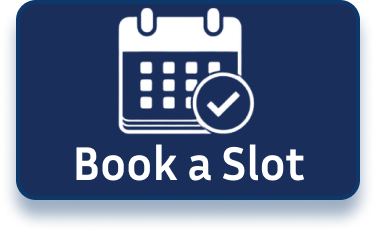
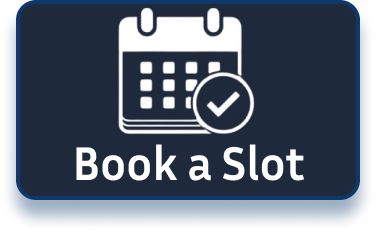
careers page and routing

diff --git a/frontend/src/pages/Careers.css b/frontend/src/pages/Careers.css
@@ -24,11 +24,20 @@
     padding: 15px;
 }
 
+.careers-header {
+    display: flex;
+    align-items: center;
+    justify-content: space-between;
+    width: 100%;
+    margin-left: 4vw;
+}
+
+/* Why Join Us Title */
 .careers-content h2 {
-    font-size: 22px;
+    font-size: 30px;
     font-weight: bold;
-    margin-bottom: 10px;
     text-align: left;
+    color: #1e293b;
 }
 
 /* Book a Slot Button */
@@ -38,16 +47,22 @@
     cursor: pointer;
     display: flex;
     align-items: center;
-    justify-content: center;
-    padding: 0;
+    margin-right: 6vw;
     width: fit-content;
 }
 
-.book-slot img {
-    width: 120px; /* Adjust size as needed */
-    height: auto;
+.book-slot:hover {
+    transform: scale(1.05); /* Slightly increase size */
 }
 
+.book-slot:active {
+    transform: scale(1.05); /* Slightly increase size */
+}
+
+.book-slot img {
+    width: 28vw; /* Adjust size as needed */
+    height: auto;
+}
 
 /* Benefits Card */
 .benefits-card {
@@ -58,20 +73,25 @@
     margin: 15px auto;
     max-width: 90%;
     text-align: left;
-    box-shadow: 0px 4px 6px rgba(0, 0, 0, 0.1);
+    box-shadow: 0 2px 2px black;
 }
 
 .benefits-card p {
     margin: 8px 0;
     font-size: 16px;
-    font-weight: bold;
+    margin-bottom: 20px;
+    font-family: 'Lucida Sans', 'Lucida Sans Regular', 'Lucida Grande', 'Lucida Sans Unicode', Geneva, Verdana, sans-serif;
+    
 }
 
 /* Join Us Section */
 .join-us {
-    margin-top: 20px;
-    font-size: 14px;
+    margin-top: 4vh;
+    margin-left: 4vw;
+    margin-right: 4vw;
+    font-size: 20px;
     text-align: left;
+    font-family:Arial, Helvetica, sans-serif;
 }
 
 .join-us h3 {
@@ -81,7 +101,7 @@
 }
 
 .join-us p {
-    font-size: 14px;
+    font-size: 16px;
     color: #333;
     line-height: 1.5;
 }
@@ -95,4 +115,113 @@
 
 .join-us a:hover {
     text-decoration: underline;
+}
+
+
+@media screen and (min-width: 1024px) {
+    /* General Layout */
+    .careers-container {
+        text-align: center;
+        background-color: #f9f9f9;
+        max-width: 100vw;
+    }
+
+    /* Hero Image Section */
+    .careers-hero-image-container {
+        width: 100%;
+        overflow: hidden;
+        margin-top: 2%;
+    }
+
+    .careers-hero-image {
+        width: 100%;
+        height: 60vh; /* Increased height for a bigger visual impact */
+        object-fit: cover;
+    }
+
+    /* Content Section */
+    .careers-content {
+        width: 80vw;
+    }
+
+    /* Why Join Us Title + Book Slot Button */
+    .careers-header {
+        display: flex;
+        align-items: center;
+        justify-content: space-between;
+        width: 100%;
+        margin-left: 12vw;
+    }
+
+    .careers-content h2 {
+        font-size: 45px;
+        font-weight: bold;
+        text-align: left;
+        color: #121d2e;
+    }
+
+    /* Book a Slot Button */
+    .book-slot {
+        cursor: pointer;
+        transition: transform 0.3s ease, box-shadow 0.3s ease;
+        margin-right: 7.5vw;
+    }
+
+    .book-slot:hover {
+        transform: scale(1.08);
+    }
+
+    .book-slot img {
+        width: 10vw; /* Scales button for desktop */
+        height: auto;
+    }
+
+    /* Benefits Card */
+    .benefits-card {
+        background-color: #1e293b;
+        color: white;
+        border-radius: 15px;
+        width: 95vw;
+        text-align: left;
+        box-shadow: 0 4px 10px rgba(0, 0, 0, 0.3);
+        margin-left: 12vw;
+    }
+
+    .benefits-card p {
+        font-size: 25px;
+        padding-bottom: 10px;
+        padding-left: 20px;
+        font-family: Arial, Helvetica, sans-serif;
+    }
+
+    /* Join Us Section */
+    .join-us {
+        margin-top: 7vh;
+        text-align: left;
+        width: 90%;
+        margin-left: 12vw;
+        margin-bottom: 7vh;
+    }
+
+    .join-us h3 {
+        font-size: 35px;
+        color: #003366;
+    }
+
+    .join-us p {
+        font-size: 20px;
+        color: #333;
+        line-height: 1.7;
+    }
+
+    /* Links */
+    .join-us a {
+        color: #206bba;
+        text-decoration: none;
+        font-weight: bold;
+    }
+
+    .join-us a:hover {
+        text-decoration: underline;
+    }
 }

diff --git a/frontend/src/pages/Careers.tsx b/frontend/src/pages/Careers.tsx
@@ -13,17 +13,18 @@ const Careers = () => {
         />
       </div>
       <section className="careers-content">
-        <h2>Why Join Us?</h2>
-
-        {/* Book a Slot Button as an Image */}
-        <button className="book-slot" onClick={() => alert("Booking Slot...")}>
-          <img src={bookslot} alt="Book a Slot" className="book-slot-image" />
-        </button>
+        <div className="careers-header">
+          <h2>Why Join Us?</h2>
+          <button
+            className="book-slot"
+            onClick={() => alert("Booking Slot...")}
+          >
+            <img src={bookslot} alt="Book a Slot" className="book-slot-image" />
+          </button>
+        </div>
 
         <div className="benefits-card">
-          <p>
-            🚀 <strong>Career Growth & Development</strong>
-          </p>
+          <p>🚀Career Growth & Development</p>
           <p>💡 Make a Real Impact</p>
           <p>💰 Competitive Pay & Benefits</p>
           <p>🌍 Inclusive & Supportive Culture</p>

diff --git a/frontend/src/pages/Home.css b/frontend/src/pages/Home.css
@@ -10,7 +10,6 @@
 .home-image-container { 
   width: 100vw;
   position: relative;
-  height: 250px;
 }
 
 .home-image {
